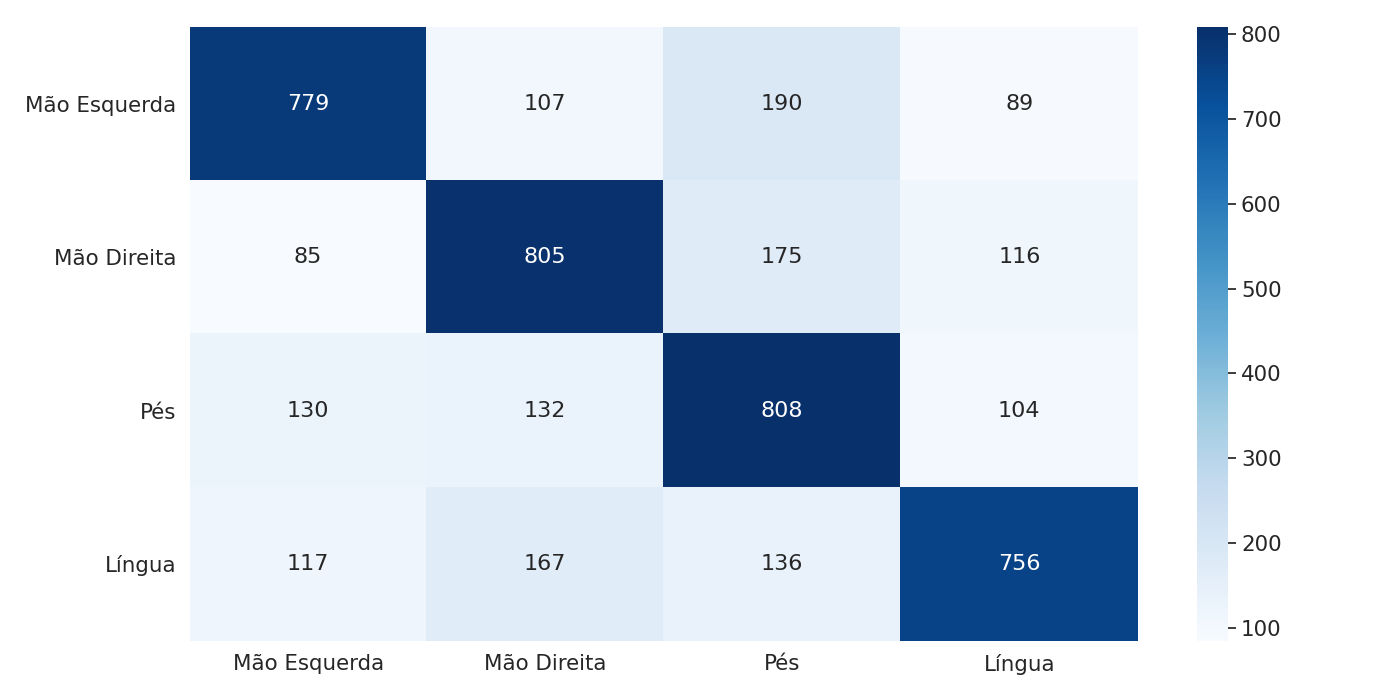
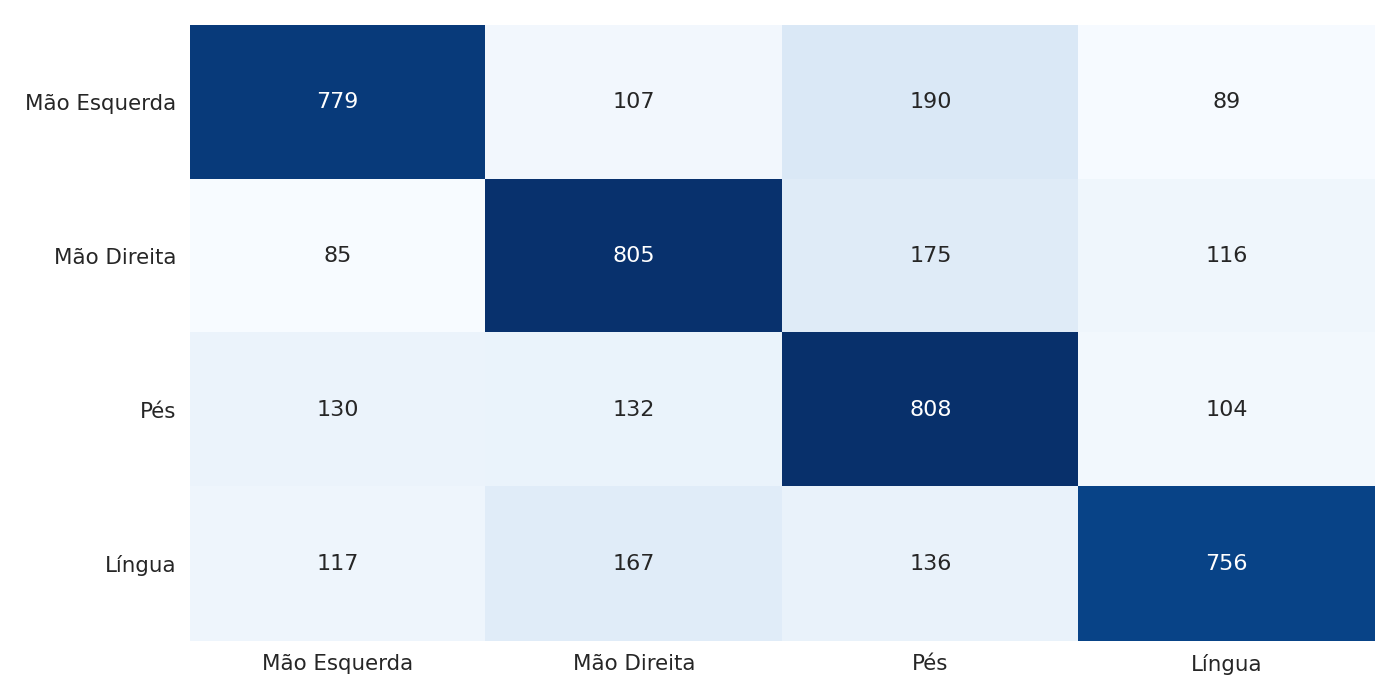
Colormap removed from confusion matrix plots.

diff --git a/visualization/confusion_matrix_plot_helper.py b/visualization/confusion_matrix_plot_helper.py
@@ -7,7 +7,7 @@ def plot_confusion_matrix(cm, classes, figure_filepath):
     df_cm = pd.DataFrame(cm, index=classes, columns=classes)
     plt.figure(figsize=(14, 7))
     sn.set(font_scale=1.4)
-    sn.heatmap(df_cm, annot=True, fmt="g", cmap="Blues", annot_kws={"size": 16})
+    sn.heatmap(df_cm, annot=True, fmt="g", cmap="Blues", annot_kws={"size": 16}, cbar=False)
 
     plt.tight_layout()
     plt.savefig(figure_filepath)
